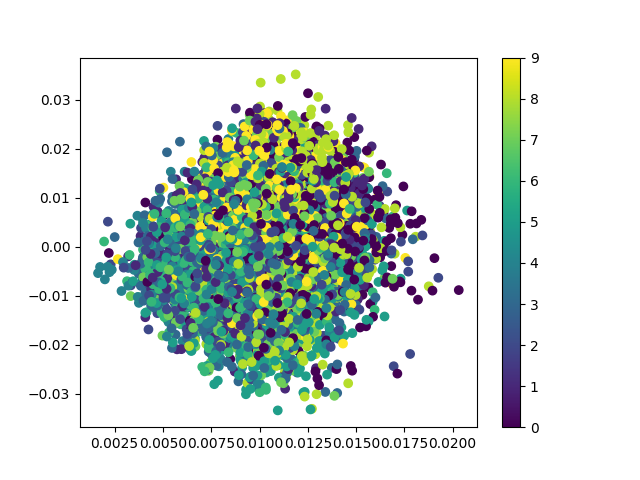
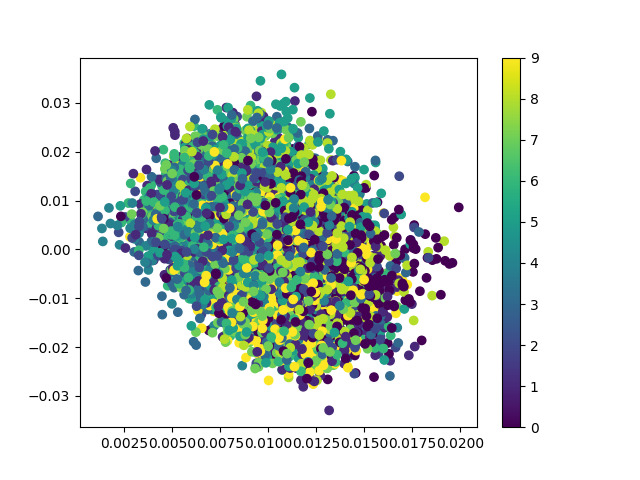
drafts

diff --git a/model/encoder_training_sandbox.py b/model/encoder_training_sandbox.py
@@ -25,6 +25,7 @@ import math
 from collections import defaultdict
 
 
+
 # Define the contrastive model with model-subclassing
 class GradualSupervised(keras.Model):
     def __init__(self, train: np.ndarray, test: np.ndarray, 
@@ -97,7 +98,7 @@ class GradualSupervised(keras.Model):
             layers.Input(shape=(hp.width,)),
             layers.Dense(10)],
             name='pseudo_linear_probe')
-
+        
         self.encoder.summary()
         self.projection_head.summary()
         self.linear_probe.summary()
@@ -183,65 +184,15 @@ class GradualSupervised(keras.Model):
                     -   sum
         
         """        
-        
-        # creating pseudolabels for the unlabeled data
 
-        # encoding the labeled and unlabeled separately
-        
-        '''
-        # print(f'{type(labels)}')
-        # print(f'{tf.unique(labels)=}')
-        tf.cast(labels, dtype=tf.float32)
-        # print(f'{labels.shape=}')
-        # for c in tf.unique(labels[:,0]):
-        #     print(f'{c}')
+        with tf.GradientTape(persistent=True) as tape:
+            unlabeled_encodings = self.encoder(unlabeled_images, training=True)
+            labeled_encodings = self.encoder(labeled_images, training=True)
 
-        # class_indices = [tf.experimental.numpy.nonzero(labels==c)[0] for c in tf.unique(labels[:,0])]
-        
-        # print(f'{[print(idx.shape) for idx in class_indices]=}\n')
+            # Q = self.w_Q(labeled_encodings, training=True)
+            # K = self.w_K(unlabeled_encodings, training=True)
+            # V = self.w_V(unlabeled_encodings, training=True)
 
-        classes, _ = tf.unique(tf.squeeze(labels))
-        class_indices = [tf.experimental.numpy.nonzero(labels==c)[0] for c in classes]
-        # print(f'{class_indices.numpy()=}')
-        # print(f'{class_indices.shape=}')
-        # print(f'{len(class_indices)=}')
-        # print(f"{[c.shape for c in class_indices]}")
-        # print(f'{class_indices=}')
-        
-
-        # print(f'{labeled_encodings.shape=}')
-        # for indices in class_indices:
-        #     print(f'{indices=}')
-        #     print(f'{type(indices)}')
-        labeled_encodings_by_class = [labeled_encodings.numpy()[indices] for indices in class_indices]
-        # print(f'{[c.shape for c in labeled_encodings_by_class]=}')
-        # print(f'{len(labeled_encodings_by_class)=}')
-        # print(f'{[c.shape for c in labeled_encodings_by_class]=}')
-
-        # (num_unlabeled, 128) @ (128, num_in_class_labeled) for c in classes
-        unlabeled_labeled_dots_by_class = [tf.matmul(unlabeled_encodings, labeled_encodings_class, transpose_b=True)/tf.math.sqrt(hp.width) for labeled_encodings_class in labeled_encodings_by_class]
-        unlabeled_labeled_dots_by_class = [tf.nn.softmax(t, axis=-1) for t in unlabeled_labeled_dots_by_class]
-        print(f'{len(unlabeled_labeled_dots_by_class)=}')
-        attention = tf.convert_to_tensor(unlabeled_labeled_dots_by_class)
-        print(f'{attention.shape=}')
-        
-        print('finished!')
-        exit()
-        '''
-        # print(f'{unlabeled_encodings.shape=}')
-        # print(f'{labeled_encodings.shape=}')
-
-
-        # Q = labeled
-        # K, V = unlabeled
-        # dot product between Q and K
-        # (how well does labeled data relate to unlabeled data)
-
-        #print(f'{labels.shape=}')
-        # labels_onehot = tf.one_hot(labels, 10)
-        with tf.GradientTape() as tape:
-            unlabeled_encodings = self.encoder(unlabeled_images)
-            labeled_encodings = self.encoder(labeled_images)
             attention = tf.matmul(labeled_encodings, unlabeled_encodings, transpose_b=True)/math.sqrt(hp.width)
             attention = tf.nn.softmax(attention)
 
@@ -249,16 +200,27 @@ class GradualSupervised(keras.Model):
             # weigh our unlabeled encodings based on how well it relates
             # using the attention to "label" the 
             #print(f'{attention.shape=}')
+            '''
             weighted_labeled_encodings = tf.matmul(attention, unlabeled_encodings)
             weighted_labeled_encodings = tf.nn.softmax(weighted_labeled_encodings)
 
-            #print(f'{weighted_labeled_encodings.shape=}')
+            print(f'{weighted_labeled_encodings.shape=}')
             
+            output = self.linear_probe(weighted_labeled_encodings, training=True)
+            probe_loss = self.probe_loss(labels, output)
+            encoder_gradients = tape.gradient(probe_loss, self.encoder.trainable_weights)
+            linear_probe_gradients = tape.gradient(probe_loss, self.linear_probe.trainable_weights)
+
+            self.pseudo_optimizer.apply_gradients(zip(encoder_gradients, self.encoder.trainable_weights))
+            self.probe_optimizer.apply_gradients(zip(linear_probe_gradients, self.linear_probe.trainable_weights))
+
+            return output, probe_loss
+            '''
             output = self.pseudo_linear_probe(weighted_labeled_encodings)
             pseudo_loss = self.pseudo_loss(labels, output)
-            gradients = tape.gradient(pseudo_loss, self.encoder.trainable_weights)
-            self.pseudo_optimizer.apply_gradients(zip(gradients, self.encoder.trainable_weights))
-            
+            encoder_gradients = tape.gradient(pseudo_loss, self.encoder.trainable_weights)
+
+            self.pseudo_optimizer.apply_gradients(zip(encoder_gradients, self.encoder.trainable_weights))
             
 
         
@@ -276,7 +238,76 @@ class GradualSupervised(keras.Model):
         a pseudolabel
 
         '''
+    def pad_clusters(self, clusters):
+        acc = []
+        max_size = max(len(c) for c in clusters)
+        # print(f'{max_size=}')
+
+        for c in clusters:
+            # print(f'{c.shape=}')
+            padding_idx = np.random.choice(np.arange(len(c)), size=(max_size - len(c)), replace=True)
+            padding = c[padding_idx]
+            acc.append(np.concatenate([c, padding]))
         
+        # print(f'{[c.shape for c in acc]}')
+        return np.asarray(acc)
+    def pseudo_classified_test(self, unlabeled_images, labeled_images, labels):
+        unlabeled_encodings = self.encoder(unlabeled_images)
+        labeled_encodings = self.encoder(labeled_images)
+
+        # print(f'{type(labels)}')
+        # print(f'{tf.unique(labels)=}')
+        # tf.cast(labels, dtype=tf.float32)
+        # print(f'{labels.shape=}')
+        # for c in tf.unique(labels[:,0]):
+        #     print(f'{c}')
+
+        # class_indices = [tf.experimental.numpy.nonzero(labels==c)[0] for c in tf.unique(labels[:,0])]
+        
+        # print(f'{[print(idx.shape) for idx in class_indices]=}\n')
+
+        classes, _ = tf.unique(tf.squeeze(labels))
+        # print(f'{classes.shape=}')
+        class_indices = [tf.experimental.numpy.nonzero(labels==c)[0] for c in classes]
+        # print(f'{class_indices.numpy()=}')
+        # print(f'{class_indices.shape=}')
+        # print(f'{len(class_indices)=}')
+        # print(f"{[c.shape for c in class_indices]}")
+        # print(f'{class_indices=}')
+        
+
+        # print(f'{labeled_encodings.shape=}')
+        # for indices in class_indices:
+        #     print(f'{indices=}')
+        #     print(f'{type(indices)}')
+        labeled_encodings_by_class = [labeled_encodings.numpy()[indices] for indices in class_indices]
+        # print(f'{labeled_encodings.shape=}')
+        # labeled_encodings_by_class = tf.gather(labeled_encodings, _)
+        # print(f'{labeled_encodings_by_class.shape=}')
+        # print(f'{len(labeled_encodings_by_class)=}')
+        # print(f'{[c.shape for c in labeled_encodings_by_class]=}')
+        padded_labeled_encodings_by_class = self.pad_clusters(labeled_encodings_by_class)
+        print(f'{unlabeled_encodings.shape=}')
+        print(f'{padded_labeled_encodings_by_class.shape=}')
+        # unlabeled_labeled_dots_by_class = np.einsum('ij,lji->lij',unlabeled_encodings, padded_labeled_encodings_by_class)
+        unlabeled_labeled_dots_by_class = tf.matmul(unlabeled_encodings, padded_labeled_encodings_by_class, transpose_b=True)
+        print(f'{unlabeled_labeled_dots_by_class.shape=}')
+        averaged = tf.transpose(tf.reduce_mean(unlabeled_labeled_dots_by_class, axis=-1))
+        print(f'{averaged.shape=}')
+        softmaxed = tf.nn.softmax(averaged)
+        pseudo_labeled = tf.argmax(softmaxed, axis=-1)
+        print(f'{pseudo_labeled.shape=}')
+        # print(f'{len(labeled_encodings_by_class)=}')
+
+        # (num_unlabeled, 128) @ (128, num_in_class_labeled) for c in classes
+        # unlabeled_labeled_dots_by_class = [tf.norm(unlabeled_encodings - labeled_encodings_class, ord='euclidean') for labeled_encodings_class in labeled_encodings_by_class]
+        # unlabeled_labeled_dots_by_class = [tf.nn.softmax(t, axis=-1) for t in unlabeled_labeled_dots_by_class]
+        # print(f'{len(unlabeled_labeled_dots_by_class)=}')
+        # attention = tf.convert_to_tensor(unlabeled_labeled_dots_by_class)
+        # print(f'{attention.shape=}')
+        
+        # print('finished!')
+        exit()
 
     def train_step(self, data: tuple[tf.Tensor, tuple[tf.Tensor, tf.Tensor]]) -> dict[str, tf.float32]:
         """ Runs the training routine for a single step; i.e. trains on a single batch
@@ -327,15 +358,16 @@ class GradualSupervised(keras.Model):
         # TODO: New encoder-specific gradient tape training phase
         # Consider: pseudolabels? 
         
-        self.pseudo_classified(unlabeled_images, labeled_images, labels)
+        # class_logits, probe_loss = self.pseudo_classified(unlabeled_images, labeled_images, labels)
 
         # Below becomes linear-probe specific training phase (i.e. self.encoder(training=False))
         ########################################################################
-        # BEGIN SEMI-SUPERVISED PORTION
         # Only labeled images are used WITH LABELS
         preprocessed_images = self.classification_augmenter(
             labeled_images, training=True
         )
+        '''
+        # BEGIN SEMI-SUPERVISED PORTION
 
         # Use linear probe's classification loss to update both ENCODER and LINEAR PROBE
         # Since encoder is being updated with labels, this is SEMI-SUPERIVSED
@@ -350,6 +382,7 @@ class GradualSupervised(keras.Model):
             zip(probe_gradients, self.linear_probe.trainable_weights)
         )
         '''
+        
         # With training encoder
         # NOTE: we didn't actually update encoder LMAO
         with tf.GradientTape(persistent=True) as tape:
@@ -365,7 +398,7 @@ class GradualSupervised(keras.Model):
             zip(encoder_gradients, self.encoder.trainable_weights)
         )
         del tape
-        '''
+        
         self.probe_loss_tracker.update_state(probe_loss)
         self.probe_accuracy.update_state(labels, class_logits)
         # END SEMI-SUPERVISED PORTION
@@ -394,9 +427,9 @@ if __name__ == '__main__':
 
     # Contrastive pretraining
     gradual_supervised_model = GradualSupervised(train, test,
-                                              num_classes_range=(8,10),
-                                              split_rate_range=(0.01, 0.9),
-                                              contrastive_learning_rate_range=(0.001,0.001),
+                                              num_classes_range=10,
+                                              split_rate_range=0.5,
+                                              contrastive_learning_rate_range=0.01,
                                               probe_learning_rate_range=(0.01,0.03))
 
     # setting the unique training rates for each part of the model
@@ -404,7 +437,7 @@ if __name__ == '__main__':
         contrastive_optimizer=keras.optimizers.Adam(gradual_supervised_model.curr_contrastive_learning_rate),
         pseudo_optimizer=keras.optimizers.Adam(gradual_supervised_model.curr_contrastive_learning_rate),
         probe_optimizer=keras.optimizers.Adam(gradual_supervised_model.curr_probe_learning_rate),
-        run_eagerly=True # TODO: REMOVE THIS
+        # run_eagerly=True # TODO: REMOVE THIS
     )
     
     model_history = defaultdict(lambda: [])

diff --git a/visualizations/latent_space_visualize.py b/visualizations/latent_space_visualize.py
@@ -267,7 +267,7 @@ def main():
     ''' Main method of the file called when th fle s run '''
     # create the model instance and 
     # model = GradualSupervised()
-    model = load_model(model_type='GradualSupervised', weight_path=r'../checkpoints/gradual_pseudo_supervised_model_26.75.weights.h5')
+    model = load_model(model_type='GradualSupervised', weight_path=r'../checkpoints/gradual_pseudo_supervised_model_46.76.weights.h5')
     print("Model Loaded")
     train_dataset, labeled_train_dataset, test_dataset = load_dataset(model)
     encoded_features, true_labels = generate_latent_embeddings(model, test_dataset)
